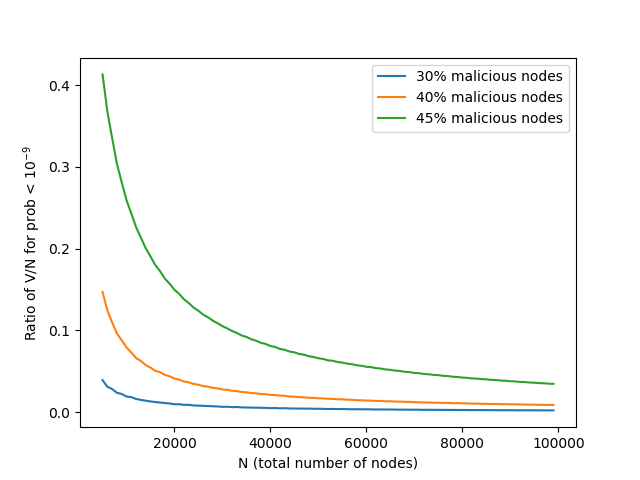
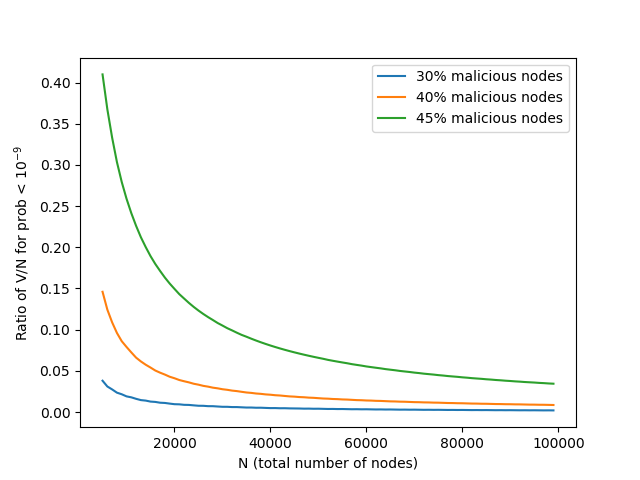
Change threshold lines so accurate.

diff --git a/notebooks/probabilityOfAttack/ratio_of_malicious_nodes.py b/notebooks/probabilityOfAttack/ratio_of_malicious_nodes.py
@@ -20,25 +20,26 @@ def plot_cummulative_over_rangeO(rR,N,V):
         pH=[]
         pB=[]
         p = math.floor(V/2) + 1
-        print("N, V: ",N,", ",V,". Varying O:")
+        #print("N, V: ",N,", ",V,". Varying O:")
         for rRi in rR:
             O=N*rRi
             pH.append(hypergeom.sf(p, N, O, V))
-            print(O," --> ", hypergeom.sf(p, N, O, V))
+            #print(O," --> ", hypergeom.sf(p, N, O, V))
             pB.append(binom.sf(p,V,rRi))
         return (pH,pB)
 
 
 N = 10000
 V = 2000
-rR = [0.3,0.35,0.4,0.45,0.5]
+rR = [0.3,0.32,0.36,0.38,0.4,0.42,0.44,0.46,0.48,0.5]
+print("Generating graphs....")
 #Plot for {O}
 (p1_O,p2_O) = plot_cummulative_over_rangeO(rR,N,V)
 
 
 
-plt.plot(rR,p1_O, label='hypergeometric dist. for 10000 nodes')
-plt.plot(rR, p2_O, label = 'binomial approx. for 10000 nodes.')
+plt.plot(rR,p1_O, label='hypergeometric dist.')
+plt.plot(rR, p2_O, label = 'binomial approx.')
 
 textstr = '\n'.join((
     r'N = %.d' % (N, ),
@@ -48,7 +49,7 @@ plt.yscale('log')
 plt.xlabel('Fraction of malicious nodes (O) in validation pool set N')
 plt.ylabel('Probability 51% attack')
 plt.hlines(0.000001, 0.3, 0.5, colors='k', linestyles='dashed', label='0.00001% threshold')
-plt.hlines(0.000000001, 0.3, 0.5, colors='k', linestyles='-.', label='0.000000001% threshold')
+plt.hlines(0.000000001, 0.3, 0.5, colors='k', linestyles='-.', label='0.00000001% threshold')
 y_text = ""
 plt.text(N,V, textstr, fontsize=10, position=(0.385, 6.737358984570953e-72),  bbox=dict(facecolor='none', edgecolor='black'))
 plt.legend(loc='lower right',prop={'size': 9})

diff --git a/notebooks/probabilityOfAttack/ratio_of_malicious_nodes_over_several_N.py b/notebooks/probabilityOfAttack/ratio_of_malicious_nodes_over_several_N.py
@@ -20,17 +20,18 @@ def plot_cummulative_over_rangeO(rR,N,V):
         pH=[]
         pB=[]
         p = math.floor(V/2) + 1
-        print("N, V: ",N,", ",V,". Varying O:")
+        #print("N, V: ",N,", ",V,". Varying O:")
         for rRi in rR:
             O=N*rRi
             pH.append(hypergeom.sf(p, N, O, V))
-            print(O," --> ", hypergeom.sf(p, N, O, V))
+            #print(O," --> ", hypergeom.sf(p, N, O, V))
         return (pH)
 
 
 N = 10000
 V = 2000
-rR = [0.3,0.35,0.4,0.45,0.5]
+rR = [0.3,0.32,0.36,0.38,0.4,0.42,0.44,0.46,0.48,0.5]
+print("Generating graphs....")
 #Plot for {O}
 p1_O = plot_cummulative_over_rangeO(rR,N,V)
 N = 2000
@@ -55,6 +56,6 @@ plt.yscale('log')
 plt.xlabel('Fraction of malicious nodes (O) in validation pool set N')
 plt.ylabel('Probability 51% attack')
 plt.hlines(0.000001, 0.3, 0.5, colors='k', linestyles='dashed', label='0.00001% threshold')
-plt.hlines(0.000000001, 0.3, 0.5, colors='k', linestyles='-.', label='0.000000001% threshold')
+plt.hlines(0.000000001, 0.3, 0.5, colors='k', linestyles='-.', label='0.00000001% threshold')
 plt.legend(loc='lower right',prop={'size': 9})
 plt.savefig('Graphs/graph_prob_vs_O_over_N_2000,_5000,_10000,_20000_V_is_20%_of_N_O_range_30_50.png')

diff --git a/notebooks/probabilityOfAttack/ratio_of_validation_pool_size.py b/notebooks/probabilityOfAttack/ratio_of_validation_pool_size.py
@@ -20,11 +20,11 @@ def plot_cummulative_over_rangeV(rO,N,rV):
         pH=[]
         pB=[]
         O=N*rO
-        print("N, O: ",N,", ",O,". Varying V:")
+        #print("N, O: ",N,", ",O,". Varying V:")
         for rVi in rV:
             p = math.floor(rVi/2) + 1
             pH.append(100*hypergeom.sf(p, N, O, rVi))
-            print(O," --> ", hypergeom.sf(p, N, O, rVi))
+            #print(O," --> ", hypergeom.sf(p, N, O, rVi))
             pB.append(100*binom.sf(p,rVi,rO))
         return (pH,pB)
 
@@ -35,6 +35,7 @@ rR1 = 0.4
 O = math.floor(rR1*N)
 Vmin=500
 rV = range(Vmin,V+1,50)
+print("Generating graphs....")
 #Plot for {V}
 (p1_V,p2_V) = plot_cummulative_over_rangeV(rR1,N,rV)
 plt.plot(rV,p1_V, label='hypergeometric dist')
@@ -43,7 +44,7 @@ plt.yscale('log')
 plt.xlabel('V')
 plt.ylabel('Probability 51% attack')
 plt.hlines(0.000001, Vmin, V, colors='k', linestyles='dashed', label='0.00001% threshold')
-plt.hlines(0.000000001, Vmin, V, colors='k', linestyles='-.', label='0.000000001% threshold')
+plt.hlines(0.000000001, Vmin, V, colors='k', linestyles='-.', label='0.00000001% threshold')
 plt.legend(loc='lower left')
 textstr = '\n'.join((
     r'N = %.d' % (N, ),

diff --git a/notebooks/probabilityOfAttack/VMin_of_V.py b/notebooks/probabilityOfAttack/VMin_of_V.py
@@ -34,7 +34,7 @@ N = 20000
 V = 4000
 rR1 = 0.4
 Vmin=100
-rVmin = range(Vmin, V+1, 10)
+rVmin = range(Vmin, V+1, 5)
 O = math.floor(rR1*N)
 p1_Vmin = ""
 textstr = '\n'.join((
@@ -50,8 +50,8 @@ plt.plot(rVmin, p2_Vm, label = 'binomial approx.')
 plt.yscale('log')
 plt.xlabel('Vmin (Number of validator nodes from validation pool that succesfully generate a delta)')
 plt.ylabel('Probability 51% attack')
-plt.hlines(0.00000001, Vmin, V, colors='k', linestyles='-.', label='0.000000001% threshold')
-plt.hlines(0.00001, Vmin, V, colors='k', linestyles='dashed', label='0.000001% threshold')
+plt.hlines(0.000000001, Vmin, V, colors='k', linestyles='-.', label='0.00000001% threshold')
+plt.hlines(0.000001, Vmin, V, colors='k', linestyles='dashed', label='0.00001% threshold')
 plt.legend(loc='lower left')
 plt.text(Vmin,y_text, textstr, fontsize=10, position=(150, 6.737358984570953e-31),  bbox=dict(facecolor='none', edgecolor='black'))
 plt.savefig('Graphs/graph_prob_vs_VMin_N20000_V4000_O_8000.png')

diff --git a/notebooks/probabilityOfAttack/Validation_pool_to_achieve_10^-9.py b/notebooks/probabilityOfAttack/Validation_pool_to_achieve_10^-9.py
@@ -27,7 +27,7 @@ def plot_ratio_VoverN(rO,rN,thre):
             
             proba_thre = 1 
             rVi = Vmin #rVi is set to 0.001 of the value of the range interval 
-            Vbin = 10 #bin size of 10 
+            Vbin = 5 #bin size of 10 
             V_thre = 0 
             while proba_thre > thre: #while value set on l32 > value set on l52 ...
                 p = math.floor(rVi/2) + 1 #math.floor rounds to the nearest value

diff --git a/notebooks/probabilityOfAttack/Validation_pool_to_achieve_10^-6.py b/notebooks/probabilityOfAttack/Validation_pool_to_achieve_10^-6.py
@@ -26,7 +26,7 @@ def plot_ratio_VoverN(rO,rN,thre):
             Vmin = math.floor(0.001*rNi)
             proba_thre = 1
             rVi = Vmin
-            Vbin = 10
+            Vbin = 5
             V_thre = 0
             while proba_thre > thre:
                 p = math.floor(rVi/2) + 1

diff --git a/notebooks/probabilityOfAttack/VMin_to_achieve_10^-6.py b/notebooks/probabilityOfAttack/VMin_to_achieve_10^-6.py
@@ -28,7 +28,7 @@ def plot_ratio_VMinOverN(rO,rN,thre):
             proba_thre = 1
             rVi = Vmin
 
-            Vbin = 10
+            Vbin = 5
             VMin_thre = 0
             while proba_thre > thre:
                 p = math.floor(rVi/2) + 1

diff --git a/notebooks/probabilityOfAttack/VMin_to_achieve_10^-9.py b/notebooks/probabilityOfAttack/VMin_to_achieve_10^-9.py
@@ -28,7 +28,7 @@ def plot_ratio_VMinOverN(rO,rN,thre):
             proba_thre = 1
             rVi = Vmin
 
-            Vbin = 10
+            Vbin = 5
             VMin_thre = 0
             while proba_thre > thre:
                 p = math.floor(rVi/2) 
